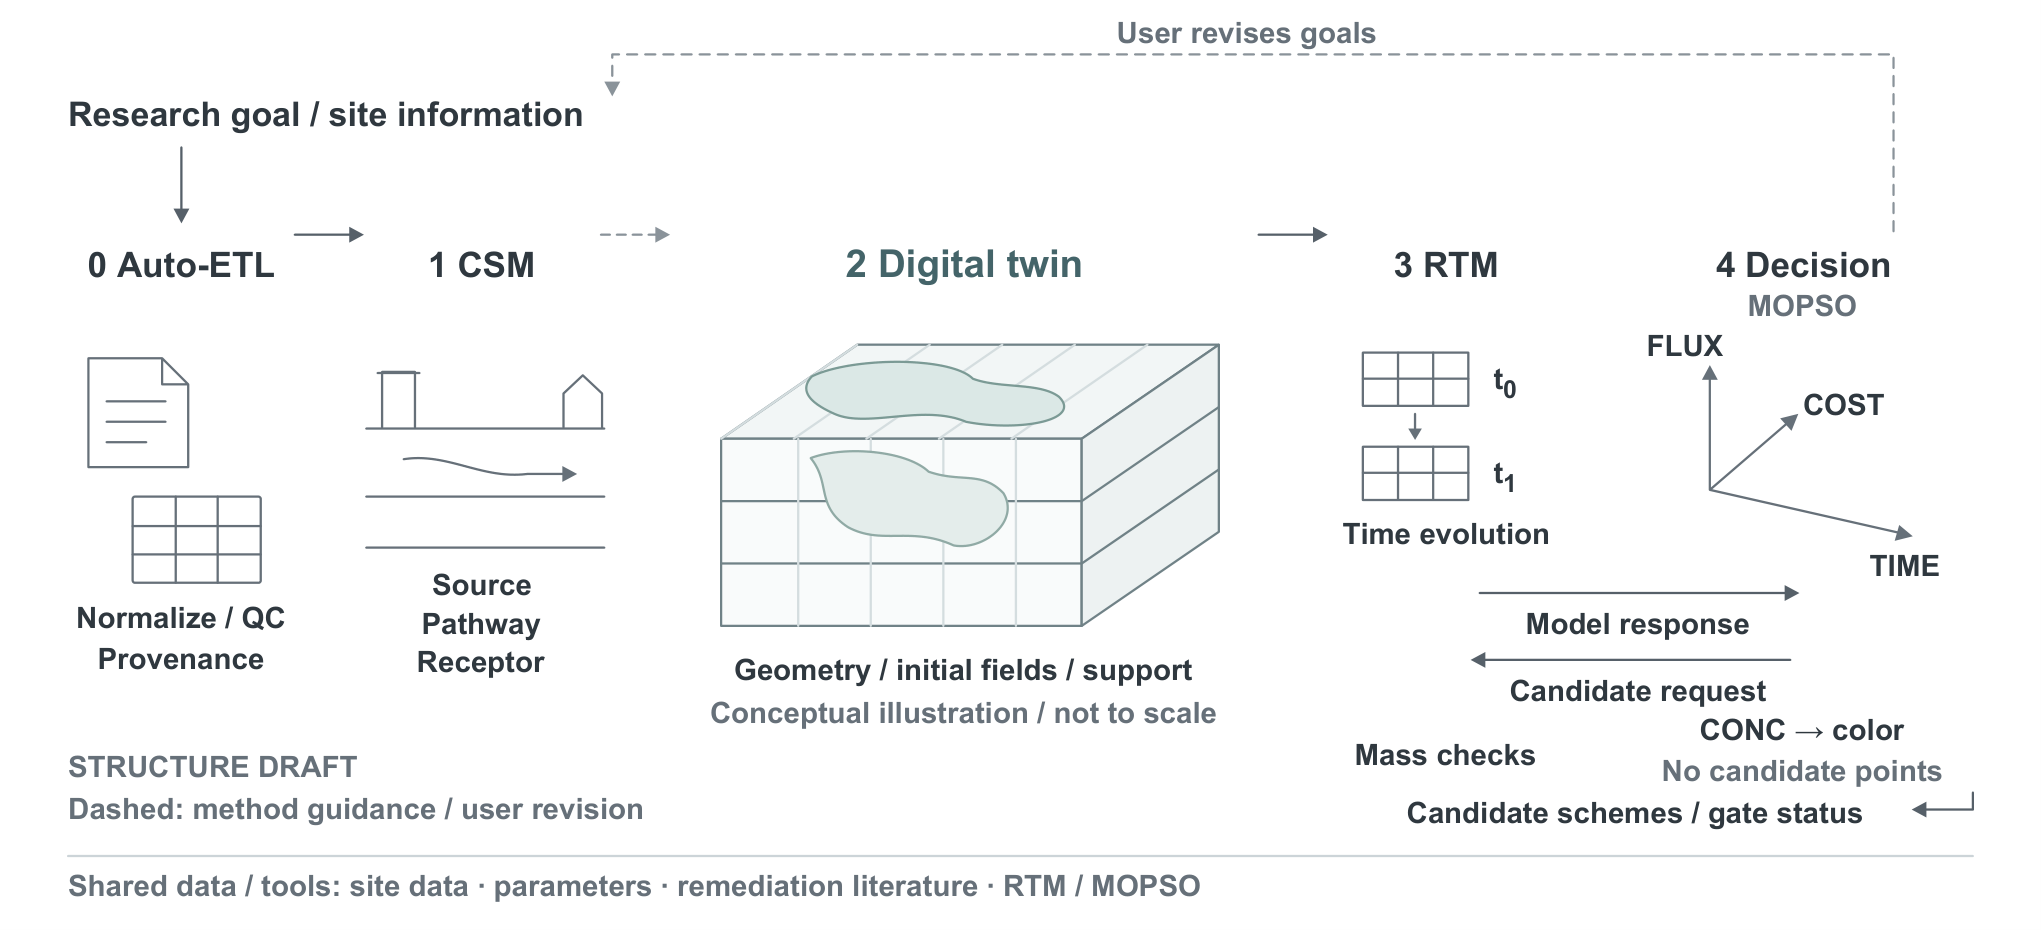
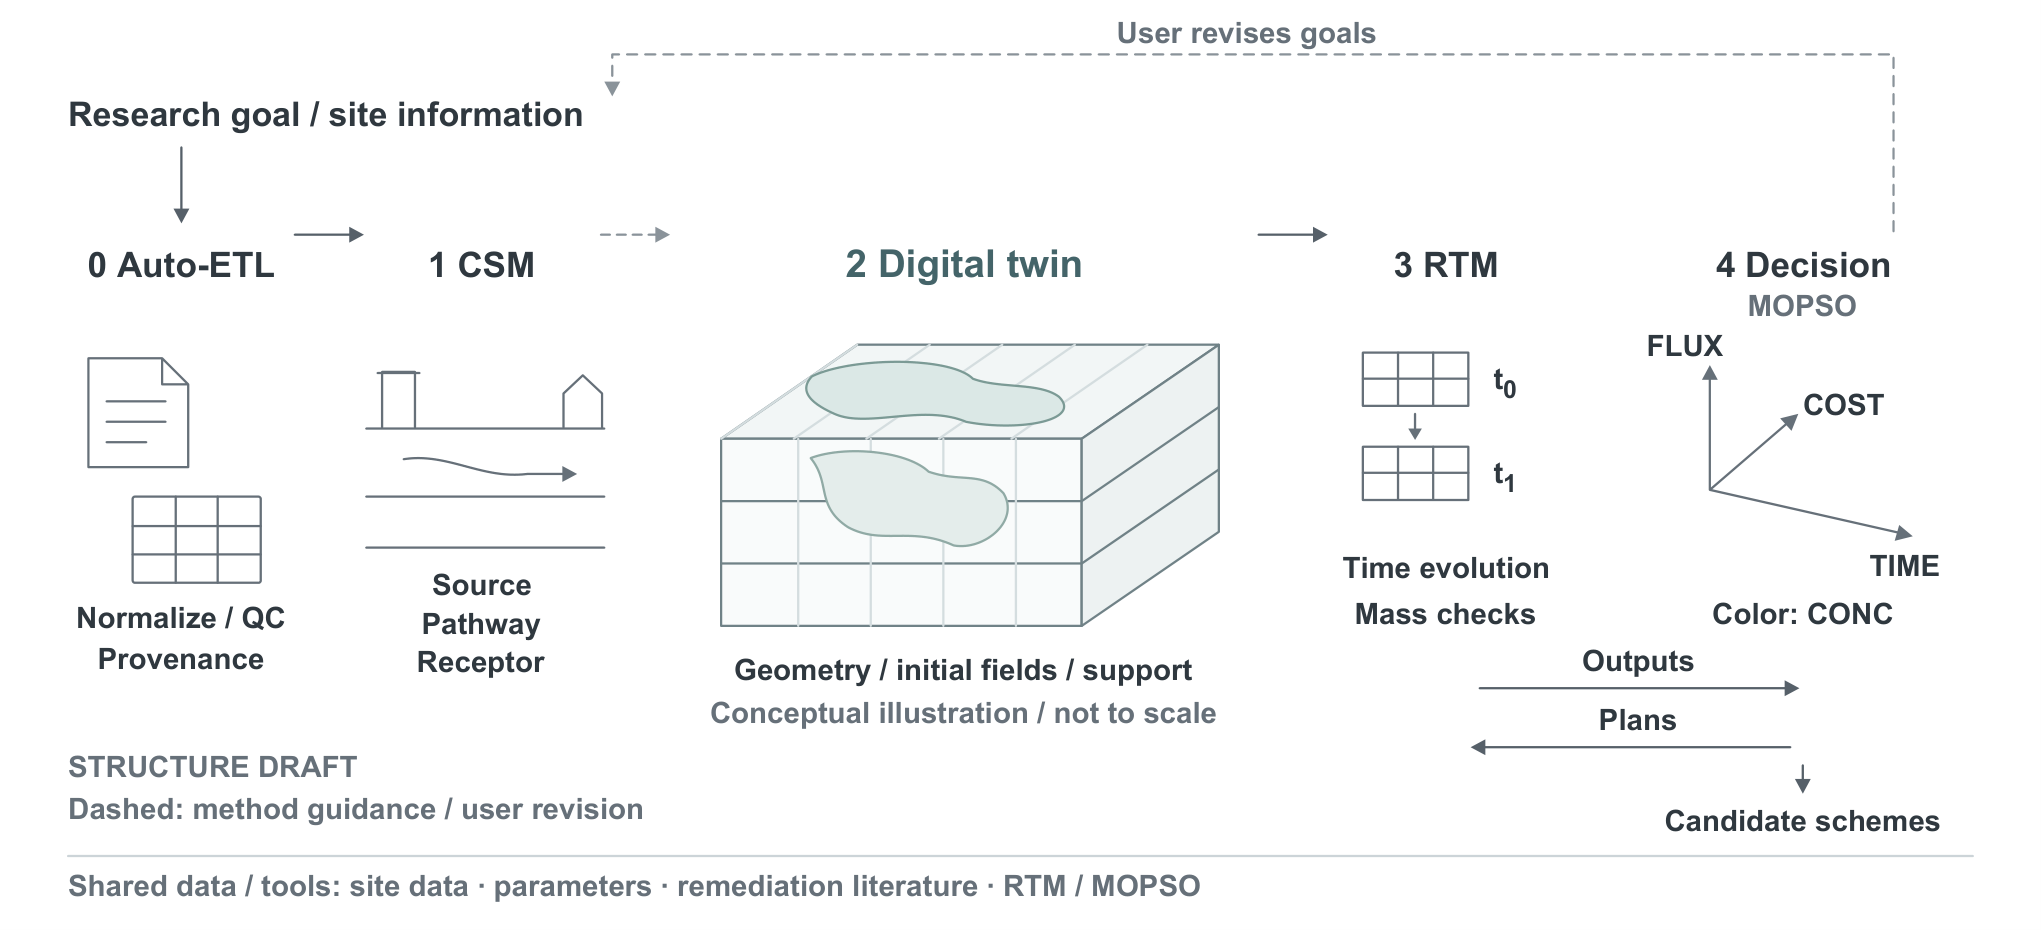
style(figure): declutter RTM and decision labels without changing scientific semantics

Changed region(s): [[0.6482, 0.6237, 0.9569, 0.9043], [0.6482, 0.5613, 0.7717, 0.6237]]

diff --git a/output/脚本/20261009-16-SoilAgent-R-Figure1/20261009-16-导出与QA.py b/output/脚本/20261009-16-SoilAgent-R-Figure1/20261009-16-导出与QA.py
@@ -63,7 +63,7 @@ def export(repo: Path) -> dict:
     converted_bytes = cairosvg.svg2pdf(url=str(source))
     with pymupdf.open("pdf", converted_bytes) as document:
         page = document[0]
-        document.set_metadata({"title": "SoilAgent-R Figure 1 — structure draft", "author": "Drawing studio", "subject": "Conceptual illustration; yyc Arial Bold revision; not publication final"})
+        document.set_metadata({"title": "SoilAgent-R Figure 1 — structure draft", "author": "Drawing studio", "subject": "Conceptual illustration; RTM/Decision layout revision; not publication final"})
         document.save(figures / f"{STEM}.pdf", garbage=4, deflate=True)
         pixmap = page.get_pixmap(matrix=pymupdf.Matrix(4, 4), alpha=False)
         pixmap.save(figures / f"{STEM}.png")
@@ -79,6 +79,14 @@ def export(repo: Path) -> dict:
         drawings = page.get_drawings()
         dashed_paths = sum(bool(d.get("dashes")) and not d["dashes"].startswith("[]") for d in drawings)
         fonts = sorted({s["font"] for s in spans})
+        # 对本轮右侧整理的六个独立标签，用最终PDF字体度量检查文字碰撞。
+        right_labels = ["Time evolution", "Mass checks", "Color: CONC", "Outputs", "Plans", "Candidate schemes"]
+        right_rects = {label: page.search_for(label) for label in right_labels}
+        collisions = []
+        for index, first in enumerate(right_labels):
+            for second in right_labels[index + 1:]:
+                if any((a & b).get_area() > 0.5 for a in right_rects[first] for b in right_rects[second]):
+                    collisions.append([first, second])
         checks = {
             "svg_unique_ids": True,
             "svg_no_raster_or_filter": True,
@@ -90,11 +98,13 @@ def export(repo: Path) -> dict:
             "pdf_only_time_subscripts_below_7pt": len(small_spans) == 2 and {s["text"].strip() for s in small_spans} == {"0", "1"} and min_font >= 6.0,
             "pdf_arial_bold_no_fallback": all("Arial" in f and "Bold" in f for f in fonts),
             "pdf_dashed_guidance_and_feedback_preserved": dashed_paths >= 2,
+            "pdf_right_labels_present_once": all(len(boxes) == 1 for boxes in right_rects.values()),
+            "pdf_right_labels_no_text_collision": not collisions,
             "pdf_width_180mm": abs(rect.width * 25.4 / 72 - 180) < 0.01,
             "pdf_height_82mm": abs(rect.height * 25.4 / 72 - 82) < 0.01,
         }
         receipt = {
-            "stage": "structure_draft_yyc_font_revision",
+            "stage": "structure_draft_right_side_layout_revision",
             "source": source.relative_to(repo).as_posix(),
             "source_sha256": hashlib.sha256(source.read_bytes()).hexdigest(),
             "backend": f"CairoSVG {cairosvg.__version__}; PyMuPDF {pymupdf.VersionBind} for PDF QA/render",
@@ -110,6 +120,8 @@ def export(repo: Path) -> dict:
             "pdf_dashed_paths": dashed_paths,
             "pdf_image_objects": len(page.get_images(full=True)),
             "clipped_text": clipped,
+            "right_label_boxes_pt": {label: [list(box) for box in boxes] for label, boxes in right_rects.items()},
+            "right_label_collisions": collisions,
             "png_size_pixels": [pixmap.width, pixmap.height],
             "not_checked_by_this_script": ["visual_layout", "scientific_acceptance", "drawio_desktop_export", "journal_specific_submission_rules"],
         }

diff --git a/tests/test_soilagent_figure1_wireframe.py b/tests/test_soilagent_figure1_wireframe.py
@@ -45,8 +45,8 @@ class WireframeTests(unittest.TestCase):
         axes = self.nodes["decision-axes"]
         self.assertEqual(axes.get("data-state"), "empty-placeholder")
         self.assertFalse(any(n.tag in {NS + "circle", NS + "ellipse", NS + "image"} for n in axes.iter()))
-        self.assertIn("No candidate points", self.text)
-        for word in ["TIME", "COST", "FLUX", "CONC → color"]:
+        self.assertIn("Decision axes contain no candidate data", self.root.find(NS + "desc").text)
+        for word in ["TIME", "COST", "FLUX", "Color: CONC"]:
             self.assertIn(word, self.text)
 
     def test_conceptual_and_draft_labels(self):
@@ -85,6 +85,22 @@ class WireframeTests(unittest.TestCase):
             subscript = node.find(NS + "tspan")
             self.assertEqual(subscript.text, str(index))
             self.assertGreater(float(subscript.get("dy")), 0)
+
+    def test_right_side_text_hierarchy(self):
+        time = self.nodes["rtm-summary-time"]
+        mass = self.nodes["rtm-summary-mass"]
+        color = self.nodes["decision-color-key"]
+        output = self.nodes["model-response-label"]
+        request = self.nodes["candidate-request-label"]
+        scheme = self.nodes["candidate-schemes-label"]
+        self.assertEqual(time.get("x"), mass.get("x"))
+        self.assertEqual(mass.get("y"), color.get("y"))
+        self.assertLess(float(mass.get("y")), float(output.get("y")))
+        self.assertLess(float(output.get("y")), float(request.get("y")))
+        self.assertLess(float(request.get("y")), float(scheme.get("y")))
+        self.assertEqual(color.get("x"), scheme.get("x"))
+        self.assertEqual(output.text, "Outputs")
+        self.assertEqual(request.text, "Plans")
 
     def test_no_external_refs(self):
         for node in self.root.iter():

diff --git a/output/报告/20261009-16-SoilAgent-R-Figure1/README.md b/output/报告/20261009-16-SoilAgent-R-Figure1/README.md
@@ -1,6 +1,6 @@
 # SoilAgent-R Figure 1：第一阶段结构审阅
 
-任务：[Issue #2](https://github.com/b619-y/drawing-studio-agent/issues/2)。2026-10-09用户认可总体结构，并要求改为yyc字体、安装真正Arial。当前完成**结构草图的字体修订**，不是正式投稿图，也不关闭Issue。本轮不自动展开真实数据制图。
+任务：[Issue #2](https://github.com/b619-y/drawing-studio-agent/issues/2)。2026-10-09用户认可总体结构，并要求改为yyc字体、安装真正Arial；随后反馈3、4部分文字混乱。当前完成**结构草图的字体与右侧文字排版修订**，不是正式投稿图，也不关闭Issue。本轮不自动展开真实数据制图。
 
 ## 本轮设计
 
@@ -21,6 +21,16 @@ Twin没有真实尺度、井位或浓度色标，标明 `Conceptual illustration
 - 导出前检查真正Arial Bold及所有可见字符，导出后核对PDF字体为`Arial-BoldMT`。若缺Arial或发生字体回退，检查会失败，不静默生成替代版。
 - 原DejaVu版保存在上一提交`15b1316`，可以通过Git比较和恢复，不另公开字体二进制。
 
+## 3、4部分文字整理
+
+按`scansci-svg`局部编辑规范，保护0/1/2、Arial Bold、配色、模型符号和三轴几何，仅调整右侧说明与交互线的布局：
+
+- RTM的`Time evolution`、`Mass checks`集中在其图形下方；Decision的`Color: CONC`与左侧摘要底行对齐。
+- 两条交互箭头集中在独立下方带：`Outputs`表示RTM模型响应，`Plans`表示MOPSO候选请求，方向不变。
+- `Candidate schemes`归入Decision下方；门控状态说明放在caption/依据表，不挤在图面。
+- 空坐标状态未改变，无候选点声明保留于SVG描述、caption及文档；没有因删减画面文字而增加虚构数据。
+- 最终PDF的六个独立标签各出现一次，文字包围盒无碰撞；仍需目视判断箭头、轴及图形间的整体关系。
+
 ## 成果与来源
 
 - [科学依据表](../../表/20261009-16-SoilAgent-R-Figure1/20261009-16-元素与科学依据.md)。
@@ -35,7 +45,7 @@ Twin没有真实尺度、井位或浓度色标，标明 `Conceptual illustration
 
 自动检查包括SVG唯一ID、五模块唯一、禁止位图/随机点/额外Agent、箭头拓扑、原生文字、PDF物理尺寸/无图像对象、字体及虚线保留、重新渲染及源码SHA。实际回执见[QA JSON](20261009-16-结构草图-QA.json)。
 
-- 15项回归测试通过（原13项＋字体及原生下标回归）；scansci结构检查通过。关系XML未改，上一轮drawio严格检查0错误、0警告仍适用于原文件，本轮不重复桌面导出。
+- 16项回归测试通过（原13项＋字体、原生下标及右侧文本层级回归）；scansci结构检查通过。关系XML未改，上一轮drawio严格检查0错误、0警告仍适用于原文件，本轮不重复桌面导出。
 - PDF为180×82 mm，原生矢量、无图像对象；仅使用`Arial-BoldMT`。主体文字最小7.37 pt，两个时间下标6.24 pt；字体子集嵌入，两条虚线确实保留，所有可见字符都有Arial字形。
 - 最终PNG由最终PDF重渲染；绘制者已目视核对字体、虚线、箭头、留白及无明显遮挡/裁切。独立只读复核未发现新的实质科学语义问题。
 - 未执行：draw.io桌面导出/交互编辑、特定期刊投稿规格检查、实体打印审阅；正式科学验收仍待进行。自动检查不能代替这些环节。
@@ -61,4 +71,4 @@ scansci与drawio检查器由执行环境提供，不拷贝第三方脚本进此P
 
 ## English caption（结构草图）
 
-**Figure 1. Evidence-grounded architecture of SoilAgent-R.** Site information is organized through Auto-ETL, a conceptual site model (CSM), three-dimensional digital-twin construction, reactive transport modelling (RTM), and multi-objective decision support. The CSM-to-twin connection represents methodological guidance rather than a claimed automated file interface. Candidate requests and model responses connect MOPSO with RTM; the four objectives are concentration (CONC), cumulative transport (FLUX), cost (COST), and engineering duration (TIME). The conceptual block is not to scale and does not encode measured concentrations. The decision axes are a layout placeholder without candidate points. Dashed feedback denotes user revision of goals, not an autonomous real-time control loop. New reconstruction candidates are currently No-Go for replacing the retained RTM input.
+**Figure 1. Evidence-grounded architecture of SoilAgent-R.** Site information is organized through Auto-ETL, a conceptual site model (CSM), three-dimensional digital-twin construction, reactive transport modelling (RTM), and multi-objective decision support. The CSM-to-twin connection represents methodological guidance rather than a claimed automated file interface. The Outputs and Plans links denote RTM model responses and MOPSO candidate requests, respectively. The four objectives are concentration (CONC), cumulative transport (FLUX), cost (COST), and engineering duration (TIME). Candidate schemes remain screening-level and subject to formal evaluation gates, not validated engineering optima. The conceptual block is not to scale and does not encode measured concentrations. The decision axes are a layout placeholder without candidate points. Dashed feedback denotes user revision of goals, not an autonomous real-time control loop. New reconstruction candidates are currently No-Go for replacing the retained RTM input.

diff --git a/output/表/20261009-16-SoilAgent-R-Figure1/20261009-16-元素与科学依据.md b/output/表/20261009-16-SoilAgent-R-Figure1/20261009-16-元素与科学依据.md
@@ -16,7 +16,7 @@
 | Decision→RTM | `MOPSO/src/yuxing_direct_rtm_mopso.py:1494,1543`；`direct_rtm_client.py:274,311,397` | 已实现候选方案请求；不是另建Orchestrator或通信总线 |
 | RTM→Decision | `direct_mixed_route_service.py:2164,2226,2428`；`yuxing_direct_rtm_mopso.py:1367` | 已实现浓度/累计通量与守恒/门控证据响应；可有精确缓存，不声称每次重跑 |
 | 真实四目标与3D映射 | `MOPSO/src/yuxing_direct_rtm_mopso.py:95,1308`；`yuxing_mixed_route_mopso.py:2122,2175` | TIME/COST/FLUX作三轴，CONC拟用颜色；目前无导入真实候选，仅空坐标，不生成点/前沿 |
-| Candidate schemes / gate status | `yuxing_direct_rtm_mopso.py:1403,2603`；`MOPSO/EVIDENCE_IMPLEMENTATION_CONTRACT.md`第5节 | 筛选级；正式计算/工程/报批门必须区分，不标工程最优或已达标 |
+| Candidate schemes（门控说明见caption） | `yuxing_direct_rtm_mopso.py:1403,2603`；`MOPSO/EVIDENCE_IMPLEMENTATION_CONTRACT.md`第5节 | 筛选级；正式计算/工程/报批门必须区分，不标工程最优或已达标；为减少画面拥挤，门控状态说明移至caption |
 | User resets goals | Issue #2明确允许人工重新设目标/比较；MOPSO参考目标与后置评价文档 | 示意用户动作；用虚线，不声称实时自主闭环 |
 | Shared data / tools | `AGENTS.md`数据底座；第3层RTM和根MOPSO实现 | 已实现资源归属；仅细条文字，不新增Agent |
 | 第5层Scale-up | `AGENTS.md`横切职责；Issue #2明确本图不单列 | 不采用，不放入图中；Methods如需另行交代 |

diff --git a/input/索引.md b/input/索引.md
@@ -3,7 +3,7 @@
 ## 20261009-16-SoilAgent-R-Figure1
 
 - 任务：[Issue #2](https://github.com/b619-y/drawing-studio-agent/issues/2)，重绘论文系统总体架构图。
-- 当前阶段：科学依据审核＋极简结构草图；2026-10-09用户认可总体结构并要求yyc字体修订，已安装真正Arial并统一用Arial Bold，不宣称正式图完成。
+- 当前阶段：科学依据审核＋极简结构草图；2026-10-09用户认可总体结构并要求yyc字体修订，已安装真正Arial并统一用Arial Bold；随后按反馈精简3/4文字、分开说明与双向箭头，不宣称正式图完成。
 - 研究来源：[soilagent-r-agent](https://github.com/b619-y/soilagent-r-agent)；核对科学基线 `e2e1f2b25ae9746ab3632fc118f946bf62582546`，治理文档工作树 `c287d03b8a2fc803419ce0128f7b18ad70dc6de7`。原始输入只读，不复制私有代码或数据。
 - 输入：研究仓库的AGENTS、README、相关层SKILL文档、Twin状态、MOPSO证据合同与代码接口；仅记录方法与来源指针。
 - 主责：`scansci-svg`，按本仓库路由制作原生矢量线框；`drawio-skill`只辅助记录可编辑关系结构。EasyPlot仅提供用户保存的yyc字体规范，无重算、无生成式位图、无随机候选点。
